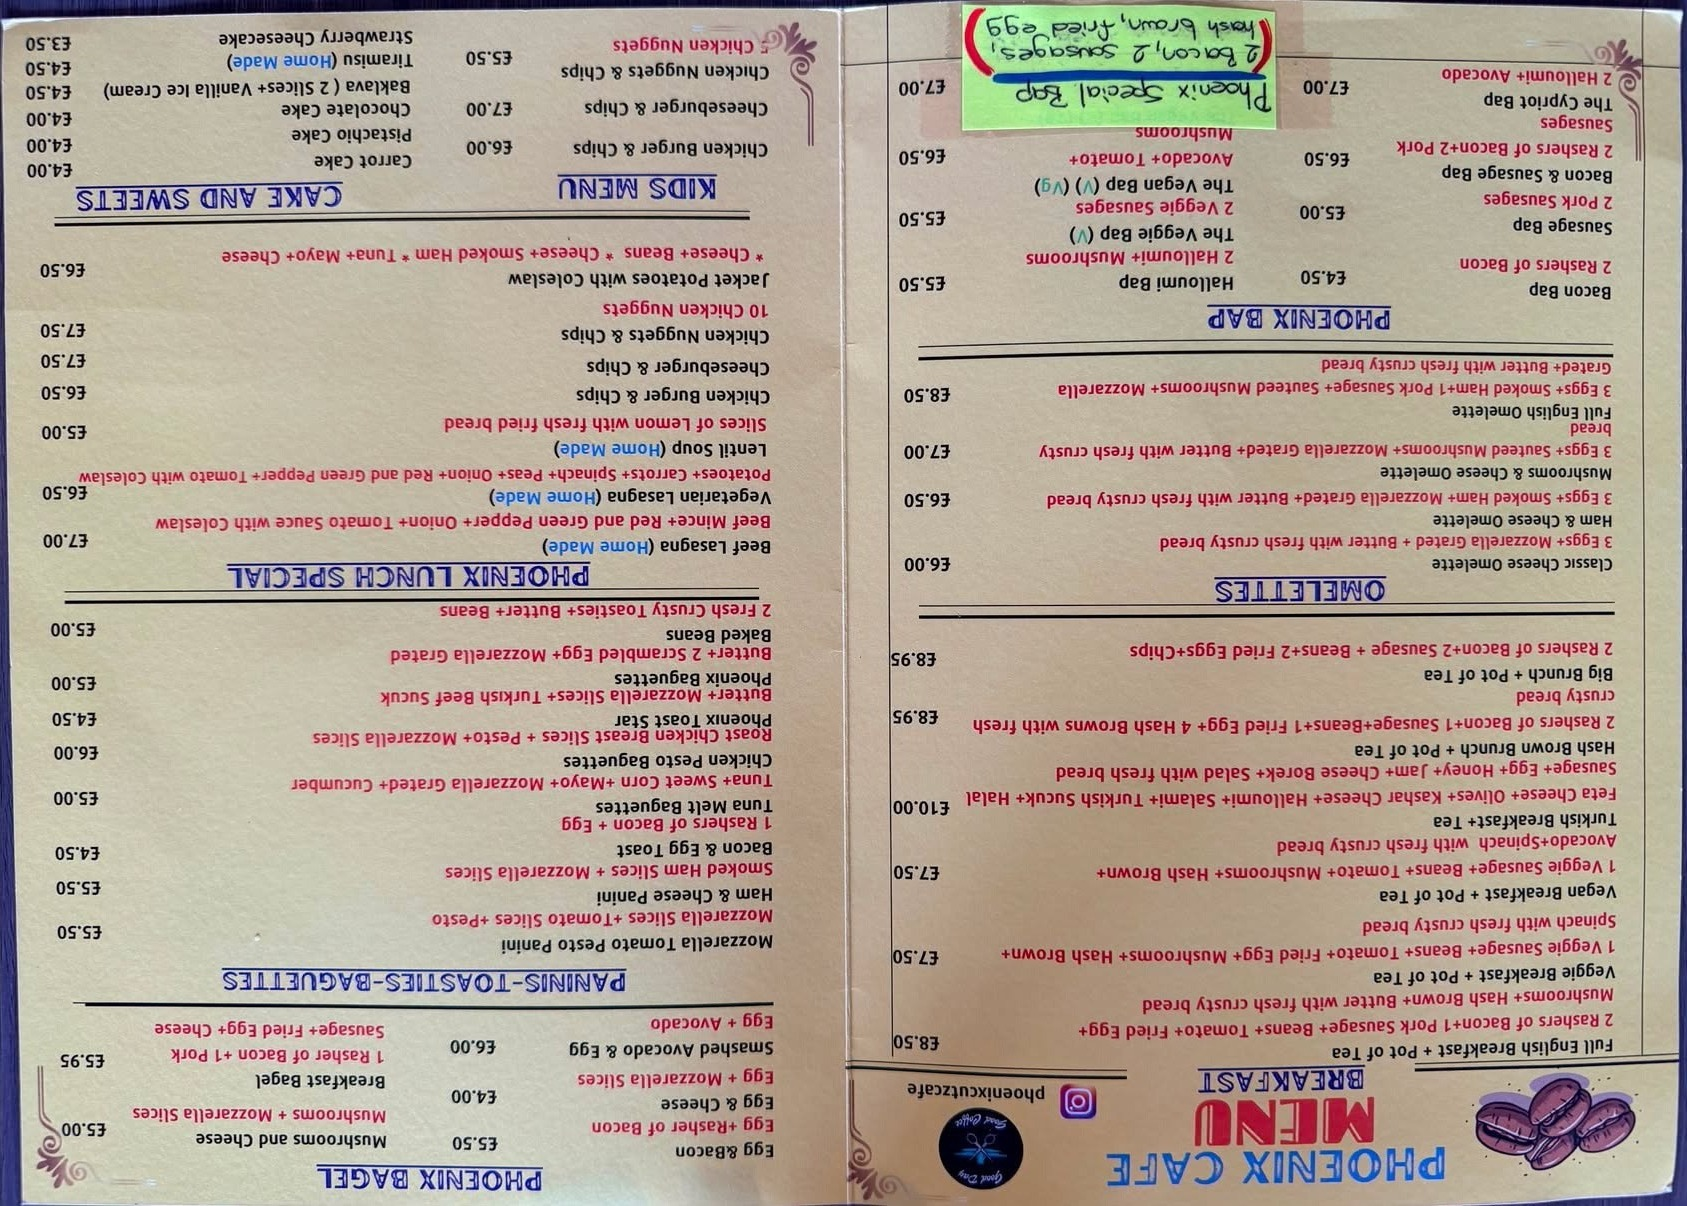
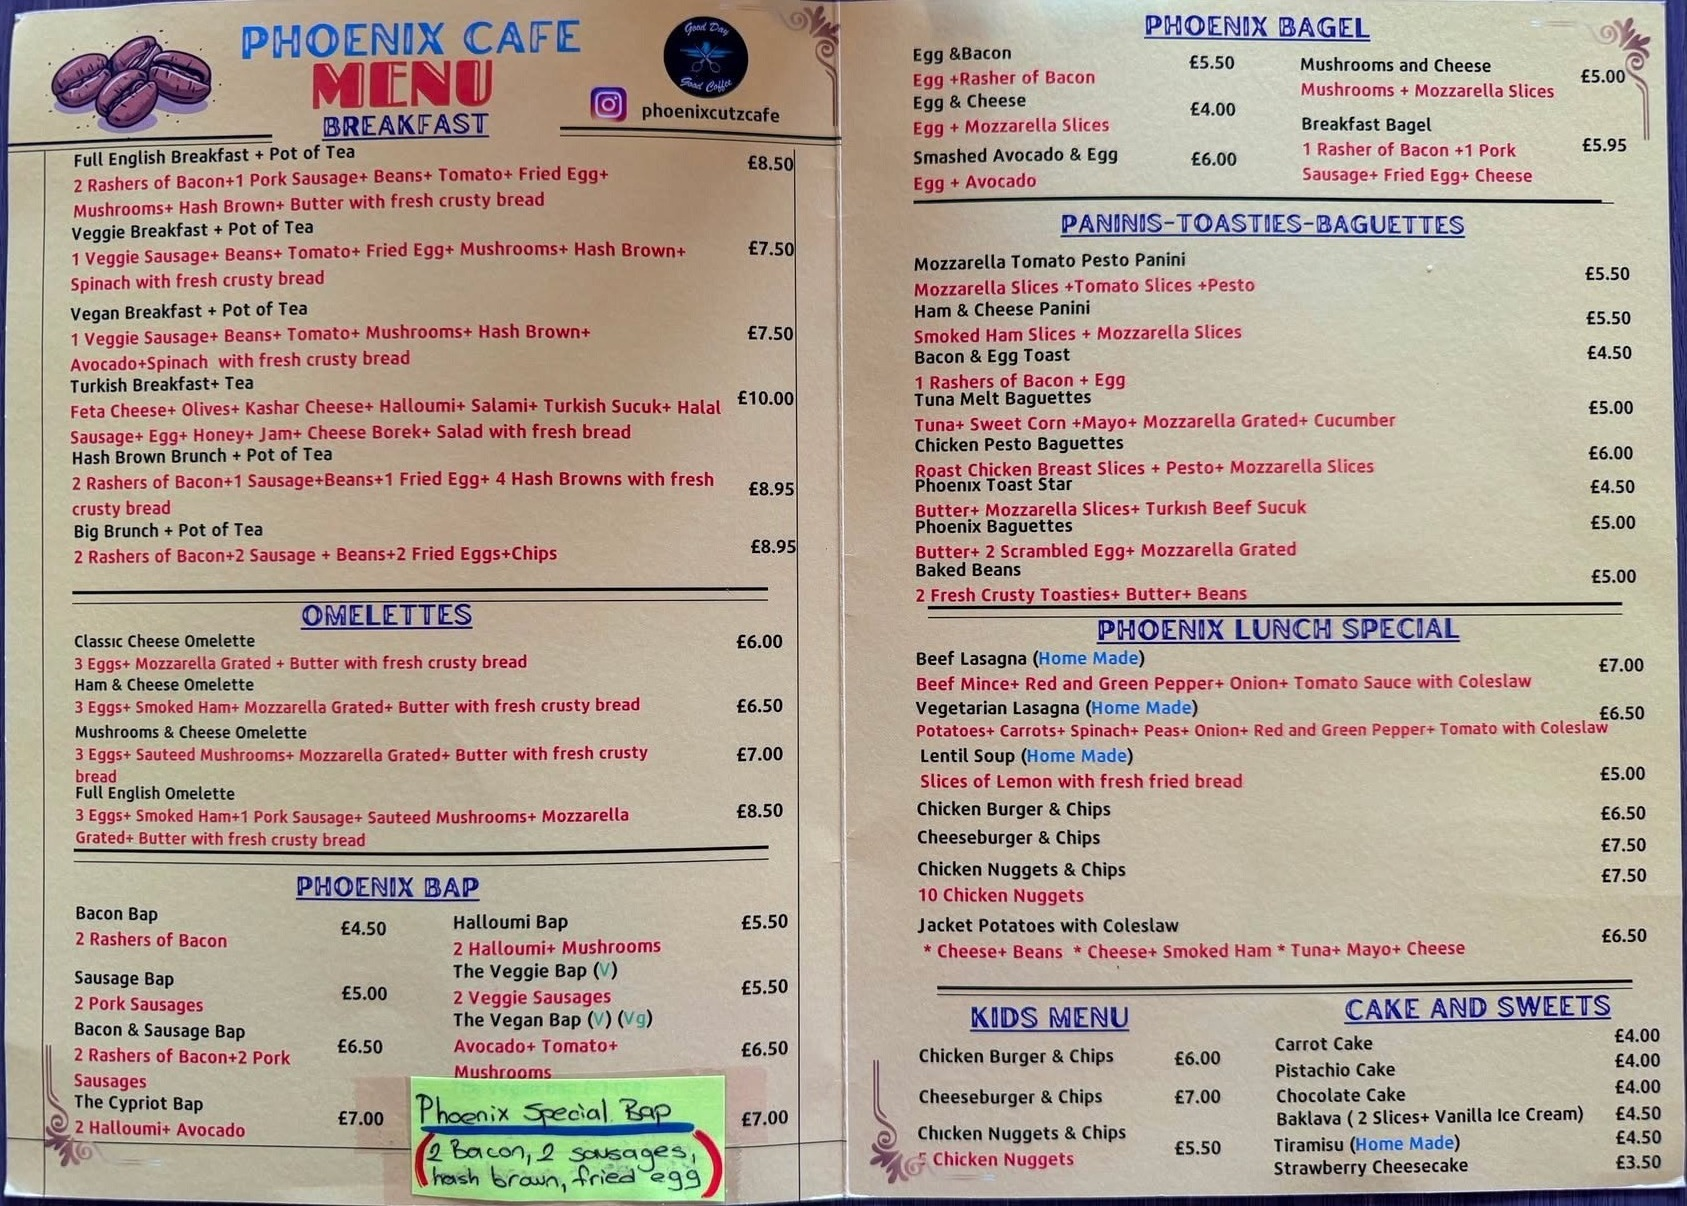
Fix booking weeks, the Visit map, the printed menu, and diary deletes
Customers can slide eight weeks ahead. The Visit map uses OpenStreetMap so it actually loads. The printed menu is turned the right way up. Yusuf can remove walk-ins and bookings from the book.

diff --git a/components/ChairDesk.tsx b/components/ChairDesk.tsx
@@ -1,7 +1,9 @@
 "use client";
 
 import { FormEvent, useEffect, useMemo, useState } from "react";
+import { DateWeekSlider } from "@/components/DateWeekSlider";
 import {
+  BOOKING_HORIZON_DAYS,
   bookingPence,
   buildDayBoard,
   displayPhone,
@@ -13,7 +15,7 @@ import {
   type ChairService,
   type QuickChairAction,
 } from "@/lib/booking";
-import { addDaysToIsoDate, formatLondonDay, formatLondonLongDay } from "@/lib/london";
+import { addDaysToIsoDate, formatLondonLongDay } from "@/lib/london";
 import { site } from "@/lib/site";
 
 type DeskPayload = {
@@ -69,7 +71,9 @@ export function ChairDesk() {
   }, []);
 
   const dayOptions = data
-    ? Array.from({ length: 14 }, (_, index) => addDaysToIsoDate(data.today, index))
+    ? Array.from({ length: BOOKING_HORIZON_DAYS }, (_, index) =>
+        addDaysToIsoDate(data.today, index),
+      )
     : [];
   const weekDates = dayOptions.slice(0, 7);
   const dayClosed = Boolean(data?.closedDates.includes(date));
@@ -157,7 +161,7 @@ export function ChairDesk() {
     });
   }
 
-  async function setStatus(id: string, status: "cancelled" | "done") {
+  async function setStatus(id: string, status: "cancelled" | "done" | "deleted") {
     setBusy(true);
     setError("");
     try {
@@ -262,35 +266,23 @@ export function ChairDesk() {
           />
         </div>
 
-        <div className="mt-8 flex gap-2 overflow-x-auto pb-1">
-          {dayOptions.map((value) => {
-            const count = (data?.bookings ?? []).filter(
-              (booking) => booking.date === value && booking.status !== "cancelled",
-            ).length;
-            const money = moneyFor(data?.bookings ?? [], value);
-            return (
-              <button
-                key={value}
-                type="button"
-                onClick={() => {
-                  setDate(value);
-                  setStart("");
-                }}
-                className={`min-w-[6.2rem] rounded-2xl border px-3 py-3 text-left text-sm ${
-                  value === date
-                    ? "border-gold bg-gold text-paper"
-                    : "border-white/10 bg-white/5 text-cream"
-                }`}
-              >
-                <span className="block font-semibold">{formatLondonDay(value)}</span>
-                <span className="block text-xs opacity-75">
-                  {data?.closedDates.includes(value)
-                    ? "Closed"
-                    : `${count} · ${formatPounds(money)}`}
-                </span>
-              </button>
-            );
-          })}
+        <div className="mt-8">
+          <DateWeekSlider
+            dark
+            dates={dayOptions}
+            selected={date}
+            onSelect={(value) => {
+              setDate(value);
+              setStart("");
+            }}
+            closed={(value) => Boolean(data?.closedDates.includes(value))}
+            meta={(value) => {
+              const count = (data?.bookings ?? []).filter(
+                (booking) => booking.date === value && booking.status !== "cancelled",
+              ).length;
+              return `${count} · ${formatPounds(moneyFor(data?.bookings ?? [], value))}`;
+            }}
+          />
         </div>
 
         <section className="mt-8 overflow-hidden rounded-[1.6rem] border border-white/10 bg-white/5">
@@ -334,8 +326,7 @@ export function ChairDesk() {
                               </span>
                             )}
                           </span>
-                          {cell.continuation ||
-                          (cell.booking.status !== "booked" && cell.booking.status !== "blocked") ? null : (
+                          {cell.continuation ? null : (
                             <span className="flex shrink-0 gap-2">
                               {cell.booking.status === "booked" ? (
                                 <button
@@ -349,9 +340,9 @@ export function ChairDesk() {
                               <button
                                 type="button"
                                 className="rounded-full border border-white/20 px-3 py-1 text-xs font-semibold text-cream"
-                                onClick={() => setStatus(cell.booking!.id, "cancelled")}
+                                onClick={() => setStatus(cell.booking!.id, "deleted")}
                               >
-                                Free
+                                Remove
                               </button>
                             </span>
                           )}
@@ -401,10 +392,19 @@ export function ChairDesk() {
                     {booking.serviceName}
                     {booking.status !== "blocked" ? ` · ${formatPounds(bookingPence(booking))}` : ""}
                   </p>
-                  <p className="text-sm text-cream/45">
-                    {booking.status}
-                    {booking.source === "online" ? " · online" : " · walk-in"}
-                  </p>
+                  <div className="flex items-center gap-3">
+                    <p className="text-sm text-cream/45">
+                      {booking.status}
+                      {booking.source === "online" ? " · online" : " · walk-in"}
+                    </p>
+                    <button
+                      type="button"
+                      className="rounded-full border border-white/20 px-3 py-1 text-xs font-semibold text-cream"
+                      onClick={() => setStatus(booking.id, "deleted")}
+                    >
+                      Remove
+                    </button>
+                  </div>
                 </li>
               ))}
             </ul>

diff --git a/components/DateWeekSlider.tsx b/components/DateWeekSlider.tsx
@@ -1,0 +1,99 @@
+"use client";
+
+import { formatLondonDay } from "@/lib/london";
+
+export function DateWeekSlider({
+  dates,
+  selected,
+  onSelect,
+  meta,
+  dark = false,
+  closed,
+}: {
+  dates: string[];
+  selected: string;
+  onSelect: (date: string) => void;
+  meta: (date: string) => string;
+  dark?: boolean;
+  closed?: (date: string) => boolean;
+}) {
+  const week = Math.max(0, Math.floor(Math.max(dates.indexOf(selected), 0) / 7));
+  const weekCount = Math.max(1, Math.ceil(dates.length / 7));
+  const slice = dates.slice(week * 7, week * 7 + 7);
+  const label =
+    slice[0] && slice[slice.length - 1]
+      ? `${formatLondonDay(slice[0])} – ${formatLondonDay(slice[slice.length - 1])}`
+      : "Dates";
+
+  const chip = dark
+    ? {
+        selected: "border-gold bg-gold text-paper",
+        open: "border-white/10 bg-white/5 text-cream",
+        shut: "cursor-not-allowed border-white/5 bg-white/5 text-cream/30",
+        arrow: "border-white/15 text-cream",
+      }
+    : {
+        selected: "border-gold bg-gold text-paper",
+        open: "border-line bg-paper text-ink",
+        shut: "cursor-not-allowed border-line bg-cream text-muted",
+        arrow: "border-line text-ink",
+      };
+
+  function go(delta: number) {
+    const nextWeek = week + delta;
+    if (nextWeek < 0 || nextWeek >= weekCount) return;
+    const nextSlice = dates.slice(nextWeek * 7, nextWeek * 7 + 7);
+    const pick = nextSlice.find((value) => !closed?.(value)) ?? nextSlice[0];
+    if (pick) onSelect(pick);
+  }
+
+  return (
+    <div>
+      <div className="flex items-center justify-between gap-3">
+        <button
+          type="button"
+          className={`inline-flex size-10 items-center justify-center rounded-full border text-lg ${chip.arrow}`}
+          disabled={week === 0}
+          aria-label="Earlier week"
+          onClick={() => go(-1)}
+        >
+          ‹
+        </button>
+        <p className={`text-sm font-semibold ${dark ? "text-cream/70" : "text-muted"}`}>
+          {label}
+        </p>
+        <button
+          type="button"
+          className={`inline-flex size-10 items-center justify-center rounded-full border text-lg ${chip.arrow}`}
+          disabled={week >= weekCount - 1}
+          aria-label="Later week"
+          onClick={() => go(1)}
+        >
+          ›
+        </button>
+      </div>
+      <div className="mt-3 grid grid-cols-7 gap-1.5 sm:gap-2">
+        {slice.map((value) => {
+          const isClosed = closed?.(value) ?? false;
+          const isSelected = value === selected;
+          return (
+            <button
+              key={value}
+              type="button"
+              disabled={isClosed}
+              onClick={() => onSelect(value)}
+              className={`min-w-0 rounded-2xl border px-1 py-2.5 text-center text-[0.7rem] leading-tight sm:px-2 sm:text-sm ${
+                isSelected ? chip.selected : isClosed ? chip.shut : chip.open
+              }`}
+            >
+              <span className="block font-semibold">{formatLondonDay(value)}</span>
+              <span className="mt-1 block text-[0.65rem] opacity-75 sm:text-xs">
+                {isClosed ? "Closed" : meta(value)}
+              </span>
+            </button>
+          );
+        })}
+      </div>
+    </div>
+  );
+}

diff --git a/components/BookChair.tsx b/components/BookChair.tsx
@@ -7,6 +7,7 @@ import {
   type ChairService,
   type PublicDay,
 } from "@/lib/booking";
+import { DateWeekSlider } from "@/components/DateWeekSlider";
 import { formatLondonDay, formatLondonLongDay } from "@/lib/london";
 import { site } from "@/lib/site";
 
@@ -186,34 +187,22 @@ export function BookChair() {
 
           <div>
             <p className="text-sm text-cream/70">Day</p>
-            <div className="mt-3 flex gap-2 overflow-x-auto pb-1">
-              {days.map((day) => {
-                const free = day.slots.filter((slot) => slot.available).length;
-                const selected = day.date === date;
-                return (
-                  <button
-                    key={day.date}
-                    type="button"
-                    disabled={day.closed}
-                    onClick={() => {
-                      setDate(day.date);
-                      setStart("");
-                    }}
-                    className={`min-w-[5.4rem] rounded-2xl border px-3 py-3 text-left text-sm ${
-                      selected
-                        ? "border-gold bg-gold text-paper"
-                        : day.closed
-                          ? "cursor-not-allowed border-white/5 bg-white/5 text-cream/30"
-                          : "border-white/10 bg-white/5 text-cream"
-                    }`}
-                  >
-                    <span className="block font-semibold">{formatLondonDay(day.date)}</span>
-                    <span className="block text-xs opacity-75">
-                      {day.closed ? "Closed" : `${free} free`}
-                    </span>
-                  </button>
-                );
-              })}
+            <div className="mt-3">
+              <DateWeekSlider
+                dark
+                dates={days.map((day) => day.date)}
+                selected={date}
+                onSelect={(value) => {
+                  setDate(value);
+                  setStart("");
+                }}
+                closed={(value) => Boolean(days.find((day) => day.date === value)?.closed)}
+                meta={(value) => {
+                  const day = days.find((item) => item.date === value);
+                  const free = day?.slots.filter((slot) => slot.available).length ?? 0;
+                  return `${free} free`;
+                }}
+              />
             </div>
           </div>
         </div>

diff --git a/app/api/chair/bookings/route.ts b/app/api/chair/bookings/route.ts
@@ -29,7 +29,7 @@ export async function GET() {
 
   const { data, kind } = await loadStore();
   const today = londonNow().isoDate;
-  const horizon = addDaysToIsoDate(today, 28);
+  const horizon = addDaysToIsoDate(today, 70);
   const bookings = data.bookings
     .filter((booking) => booking.date >= addDaysToIsoDate(today, -2) && booking.date <= horizon)
     .sort((a, b) => `${a.date}${a.start}`.localeCompare(`${b.date}${b.start}`));
@@ -227,7 +227,7 @@ export async function PATCH(request: Request) {
     return NextResponse.json({ error: "Send the change as JSON." }, { status: 400 });
   }
 
-  if (!body.id || (body.status !== "cancelled" && body.status !== "done")) {
+  if (!body.id || (body.status !== "cancelled" && body.status !== "done" && body.status !== "deleted")) {
     return NextResponse.json({ error: "Say which booking to update." }, { status: 400 });
   }
 
@@ -237,6 +237,12 @@ export async function PATCH(request: Request) {
   const saved = await updateStore((store) => {
     const index = store.bookings.findIndex((booking) => booking.id === bookingId);
     if (index === -1) return { error: "That booking is not in the book." };
+    if (nextStatus === "deleted" || nextStatus === "cancelled") {
+      return {
+        ...store,
+        bookings: store.bookings.filter((booking) => booking.id !== bookingId),
+      };
+    }
     const bookings = store.bookings.slice();
     bookings[index] = { ...bookings[index]!, status: nextStatus };
     return { ...store, bookings };

diff --git a/components/Sections.tsx b/components/Sections.tsx
@@ -379,13 +379,21 @@ export function VisitBand() {
               sizes="(min-width: 1024px) 50vw, 100vw"
             />
           </div>
-          <iframe
-            title="Map of Phoenix Cutz & Cafe on Wimborne Road"
-            src={site.address.embedUrl}
-            className="h-full min-h-[280px] w-full border-0"
-            loading="lazy"
-            referrerPolicy="no-referrer-when-downgrade"
-          />
+          <div className="relative min-h-[280px] bg-cream-2">
+            <iframe
+              title="Map of Phoenix Cutz & Cafe on Wimborne Road"
+              src={site.address.embedUrl}
+              className="absolute inset-0 h-full w-full border-0"
+              loading="lazy"
+              referrerPolicy="no-referrer-when-downgrade"
+            />
+            <a
+              href={site.address.mapsUrl}
+              className="absolute bottom-3 right-3 rounded-full bg-ink px-3 py-1.5 text-xs font-semibold text-cream"
+            >
+              Open in Google Maps
+            </a>
+          </div>
         </div>
       </div>
     </section>

diff --git a/lib/site.ts b/lib/site.ts
@@ -23,7 +23,7 @@ export const site = {
     mapsUrl:
       "https://www.google.com/maps/search/?api=1&query=493+Wimborne+Road+Bournemouth+BH9+2AW",
     embedUrl:
-      "https://maps.google.com/maps?q=493%20Wimborne%20Road%2C%20Bournemouth%20BH9%202AW&z=16&output=embed",
+      "https://www.openstreetmap.org/export/embed.html?bbox=-1.883121%2C50.741829%2C-1.873121%2C50.747829&layer=mapnik&marker=50.744829%2C-1.878121",
   },
   phoneDisplay: "07902 852085",
   phoneTel: "+447902852085",

diff --git a/lib/booking.ts b/lib/booking.ts
@@ -8,7 +8,7 @@ import {
 } from "./london";
 
 export const SLOT_MINUTES = 30;
-export const BOOKING_HORIZON_DAYS = 14;
+export const BOOKING_HORIZON_DAYS = 56;
 export const MIN_NOTICE_MINUTES = 20;
 
 const SERVICE_MINUTES: Record<string, number> = {
